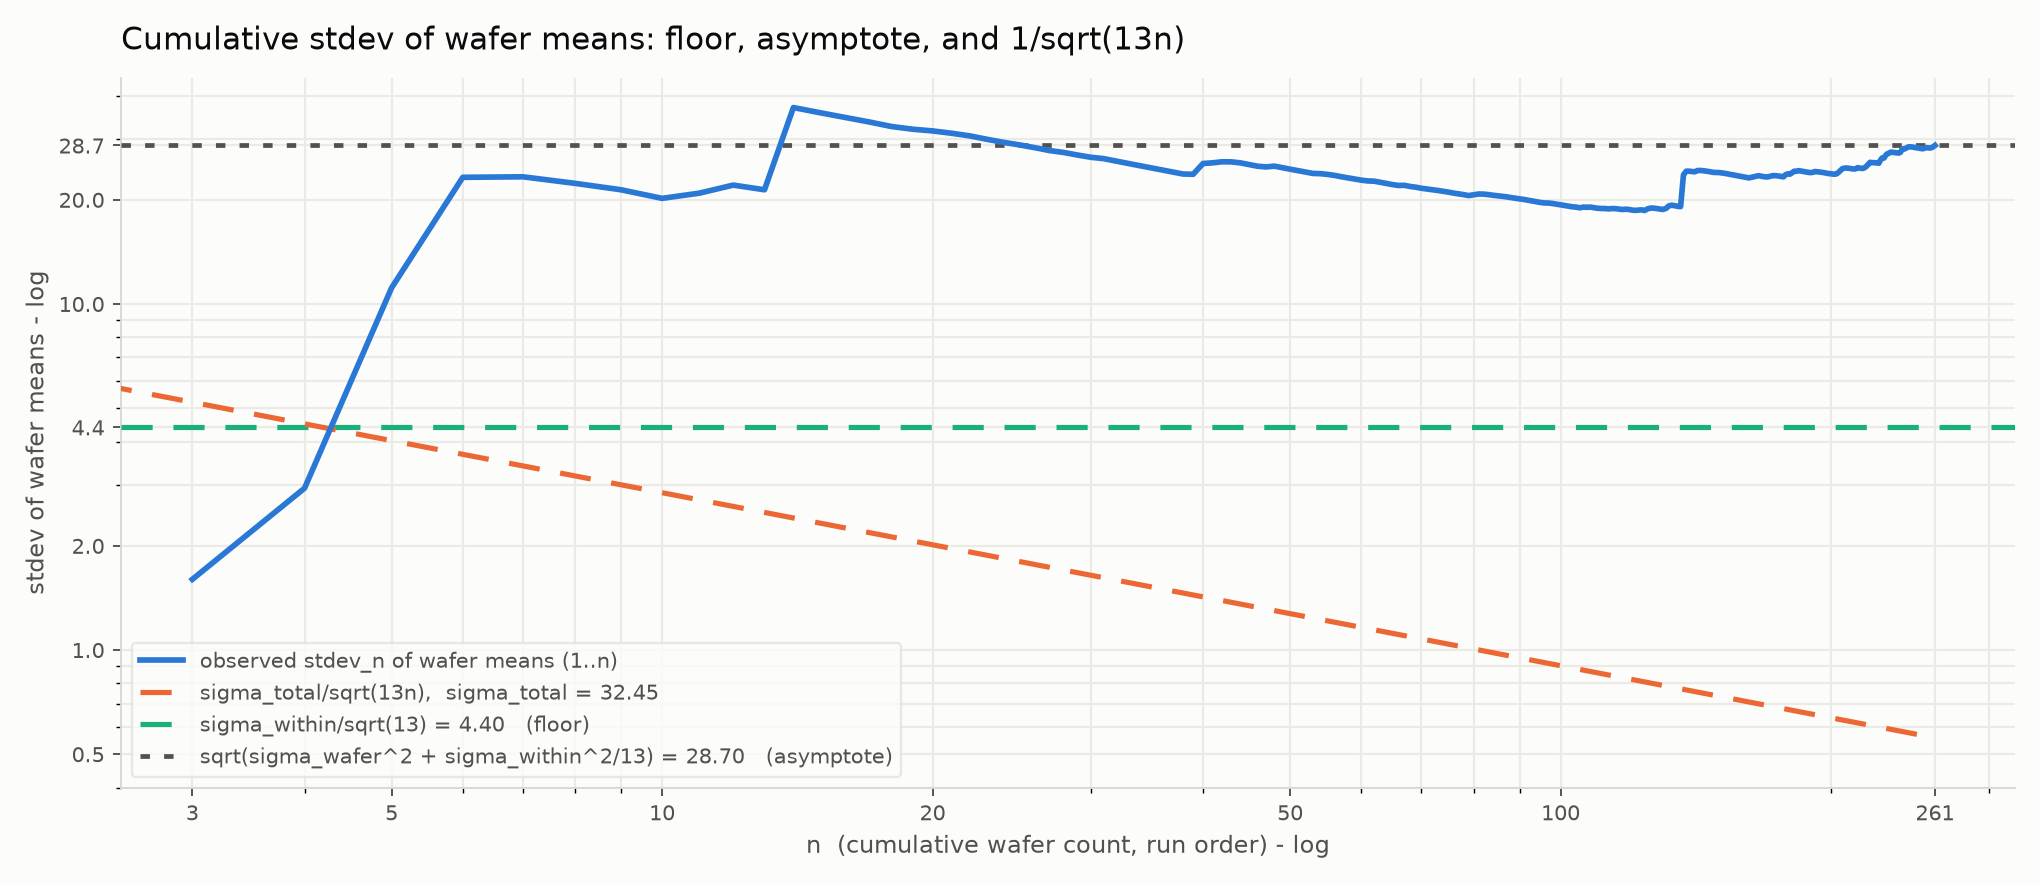
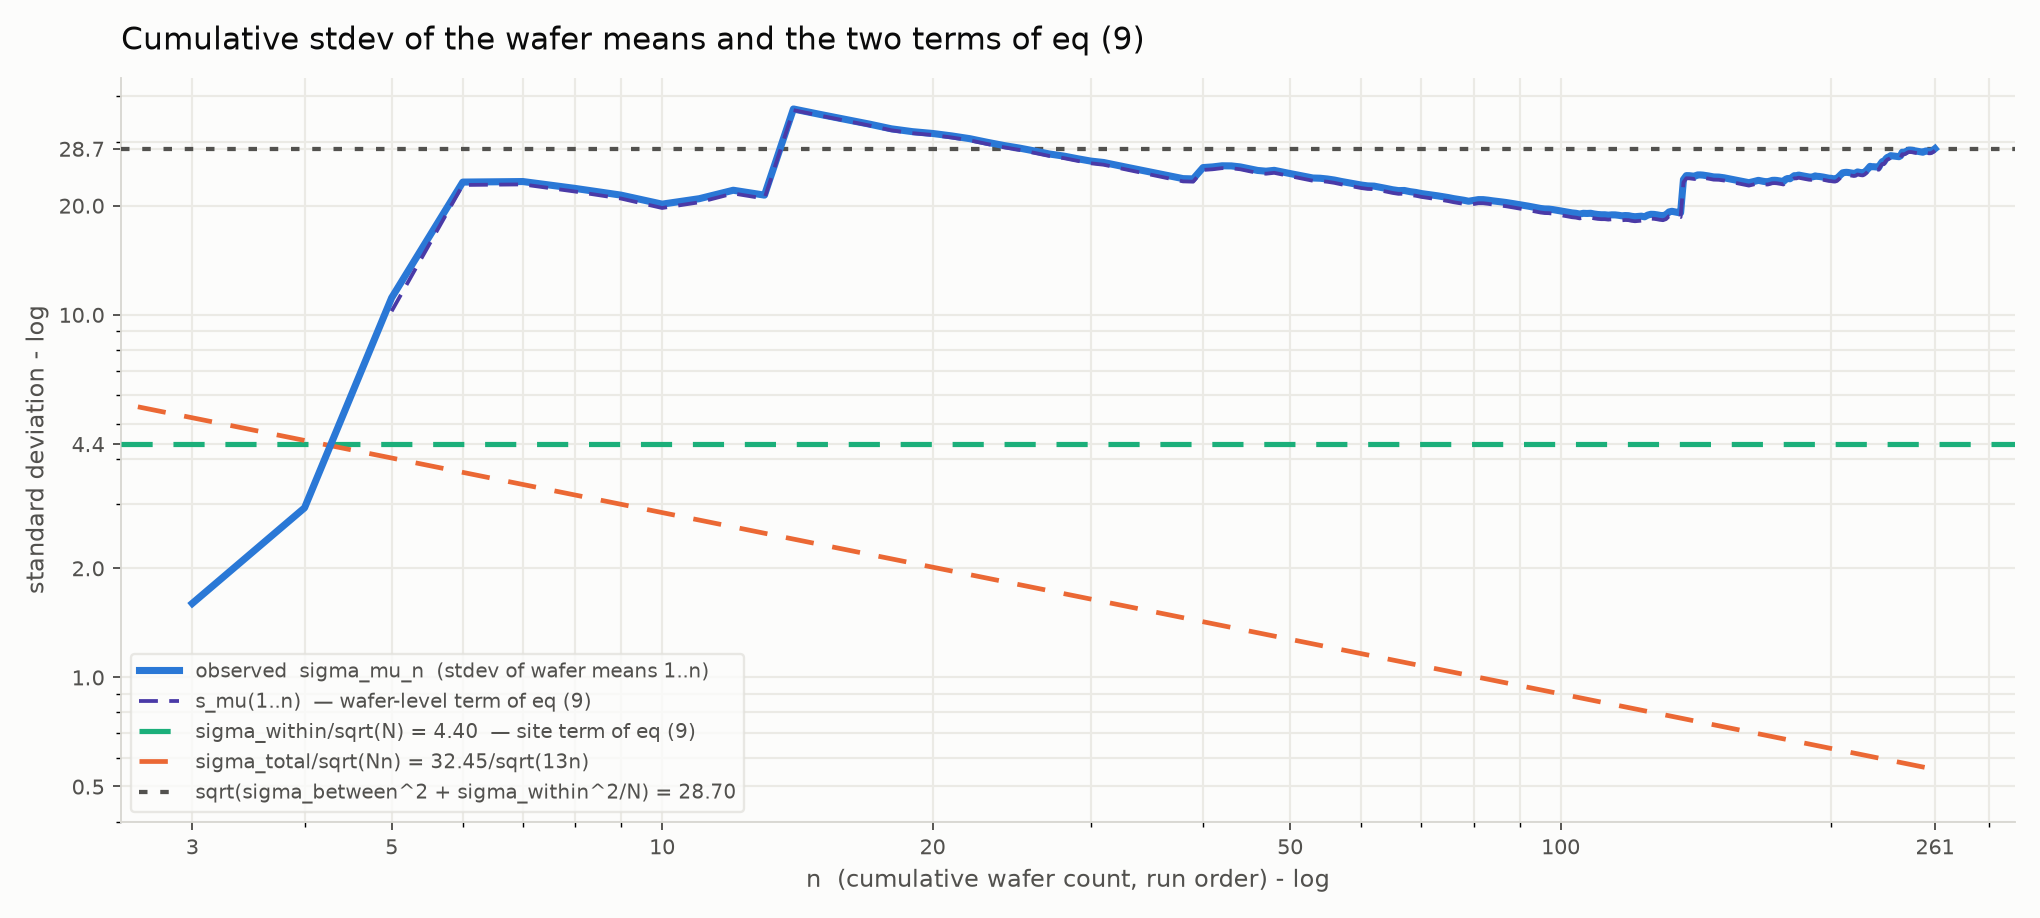
Show both terms of the cumulative formula on the figure
Draw the wafer-level term beside the site term, since plotting the formula
itself would trace the observed curve, and say so in the text.

Claude-Session: https://claude.ai/code/session_01EmRuphkFeGWkDYDUkauFqt

diff --git a/EDA/Variability/WiW-W2W/wiw-w2w-anova.md b/EDA/Variability/WiW-W2W/wiw-w2w-anova.md
@@ -1,5 +1,5 @@
 # Within-Wafer and Wafer-to-Wafer Variance Decomposition
-Rev. 26 | Created: 2026-09-01 | Updated: 2026-09-03 14:14 CDT
+Rev. 27 | Created: 2026-09-01 | Updated: 2026-09-03 14:17 CDT
 
 > ANOVA (analysis of variance) 는 관측치의 전체 산포를 몇 개의 원인으로 나누어, 어느 원인이 얼마나 기여하는지 수치로 보이는 방법이다.
 
@@ -122,11 +122,13 @@ $$\sigma_{\mu_K} = \sqrt{\frac{S_{\mathrm{total}}^2 + (N-1) \sigma_{between}^2}{
 
 $`S_{\mathrm{total}} = 32.50`$, $`\sigma_{within} = 15.87`$, $`\sigma_{between} = 28.36`$, ICC = 0.761 을 넣으면 두 식 모두 28.70 으로, 관측한 $`\sigma_{\mu_{261}}`$ 과 같다. 앞쪽 $`n`$ 장에 drift 나 계단이 섞여 $`s_{\mu}(1..n)`$ 이 $`\sigma_{between}`$ 과 어긋나면 그 $`n`$ 에서는 이렇게 쓸 수 없다.
 
+Fig 2 는 식 (9) 의 두 항을 함께 보인다. 식 (9) 자체를 그리면 $`s_{\mu}(1..n)`$ 을 자료에서 $`\sqrt{\sigma_{\mu_n}^2 - \sigma_{within}^2/N}`$ 로 얻으므로 관측 곡선과 겹치며, 대신 그 두 항을 나눠 그리면 관측값이 둘의 제곱합의 제곱근임이 보인다. 두 항의 크기 차가 커서 wafer 수준 항은 $`n \ge 5`$ 에서 관측 곡선에 거의 붙는다.
+
 이 자료는 $`N = 13`$ 이므로 첫 항 `sigma_within`²/13 = 19.38 은 site 평균화로도 없앨 수 없는 바닥이며, 그 제곱근 4.40 이 Fig 2 의 아래쪽 기준선이다. n = 261 에서 √(28.70² − 4.40²) = 28.36 이 나와 section 3 의 `sigma_wafer` 와 일치한다. 따라서 곡선은 아래로 4.40 에 갇히고 위로 √(`sigma_wafer`² + `sigma_within`²/13) = 28.70 으로 수렴한다.
 
 <img src="wiw-w2w-anova_fig/cum_stdev.png" width="900" style="max-width: 100%;" alt="Fig 2">
 
-Fig 2. Cumulative standard deviation of wafer means against the floor, the asymptote, and the 1/√(13n) curve
+Fig 2. Cumulative standard deviation of the wafer means with the two terms of equation (9), the asymptote, and the 1/√(13n) curve
 
 ## 5. Wafers with Inflated Within-Wafer Spread
 
